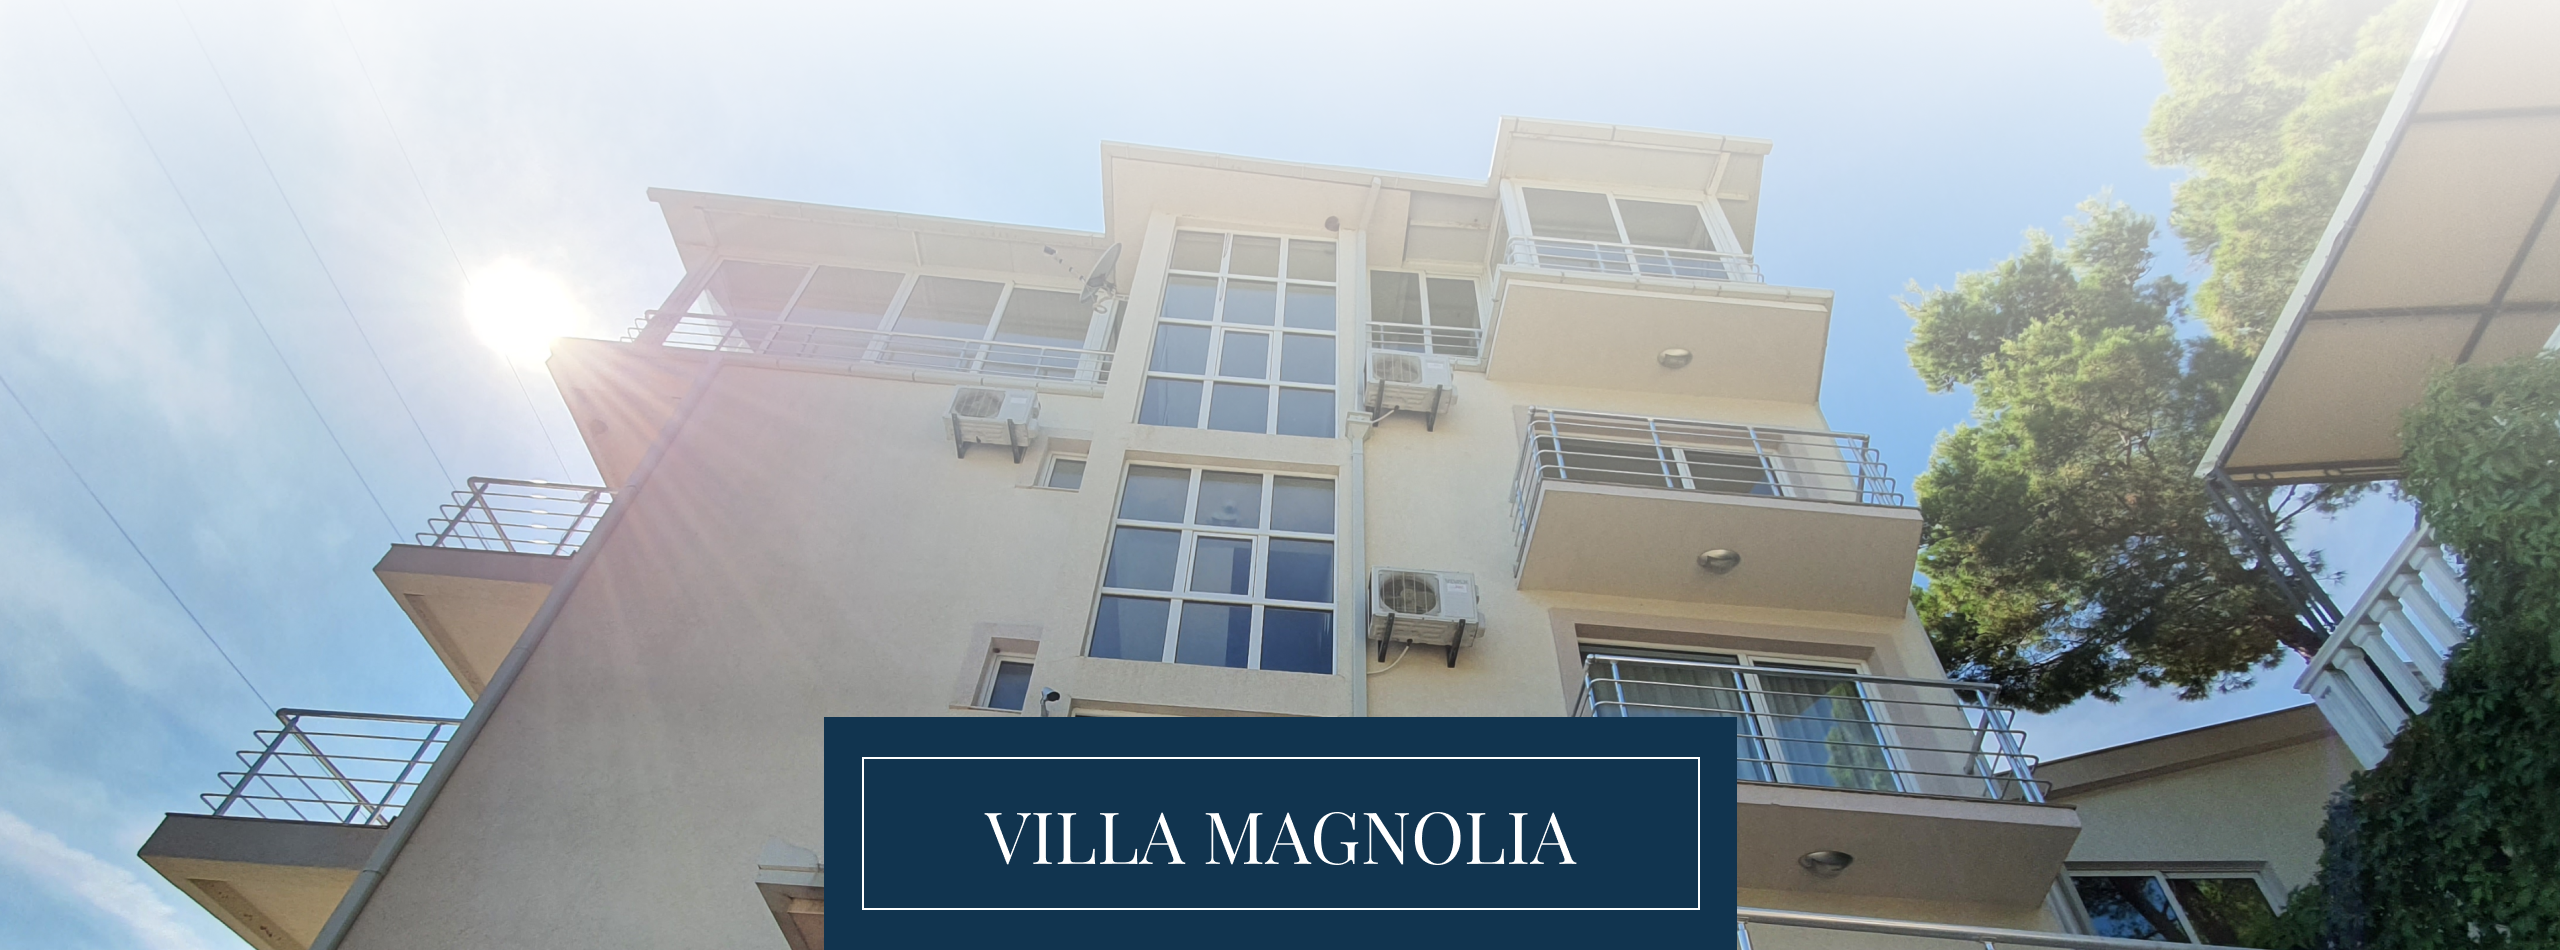
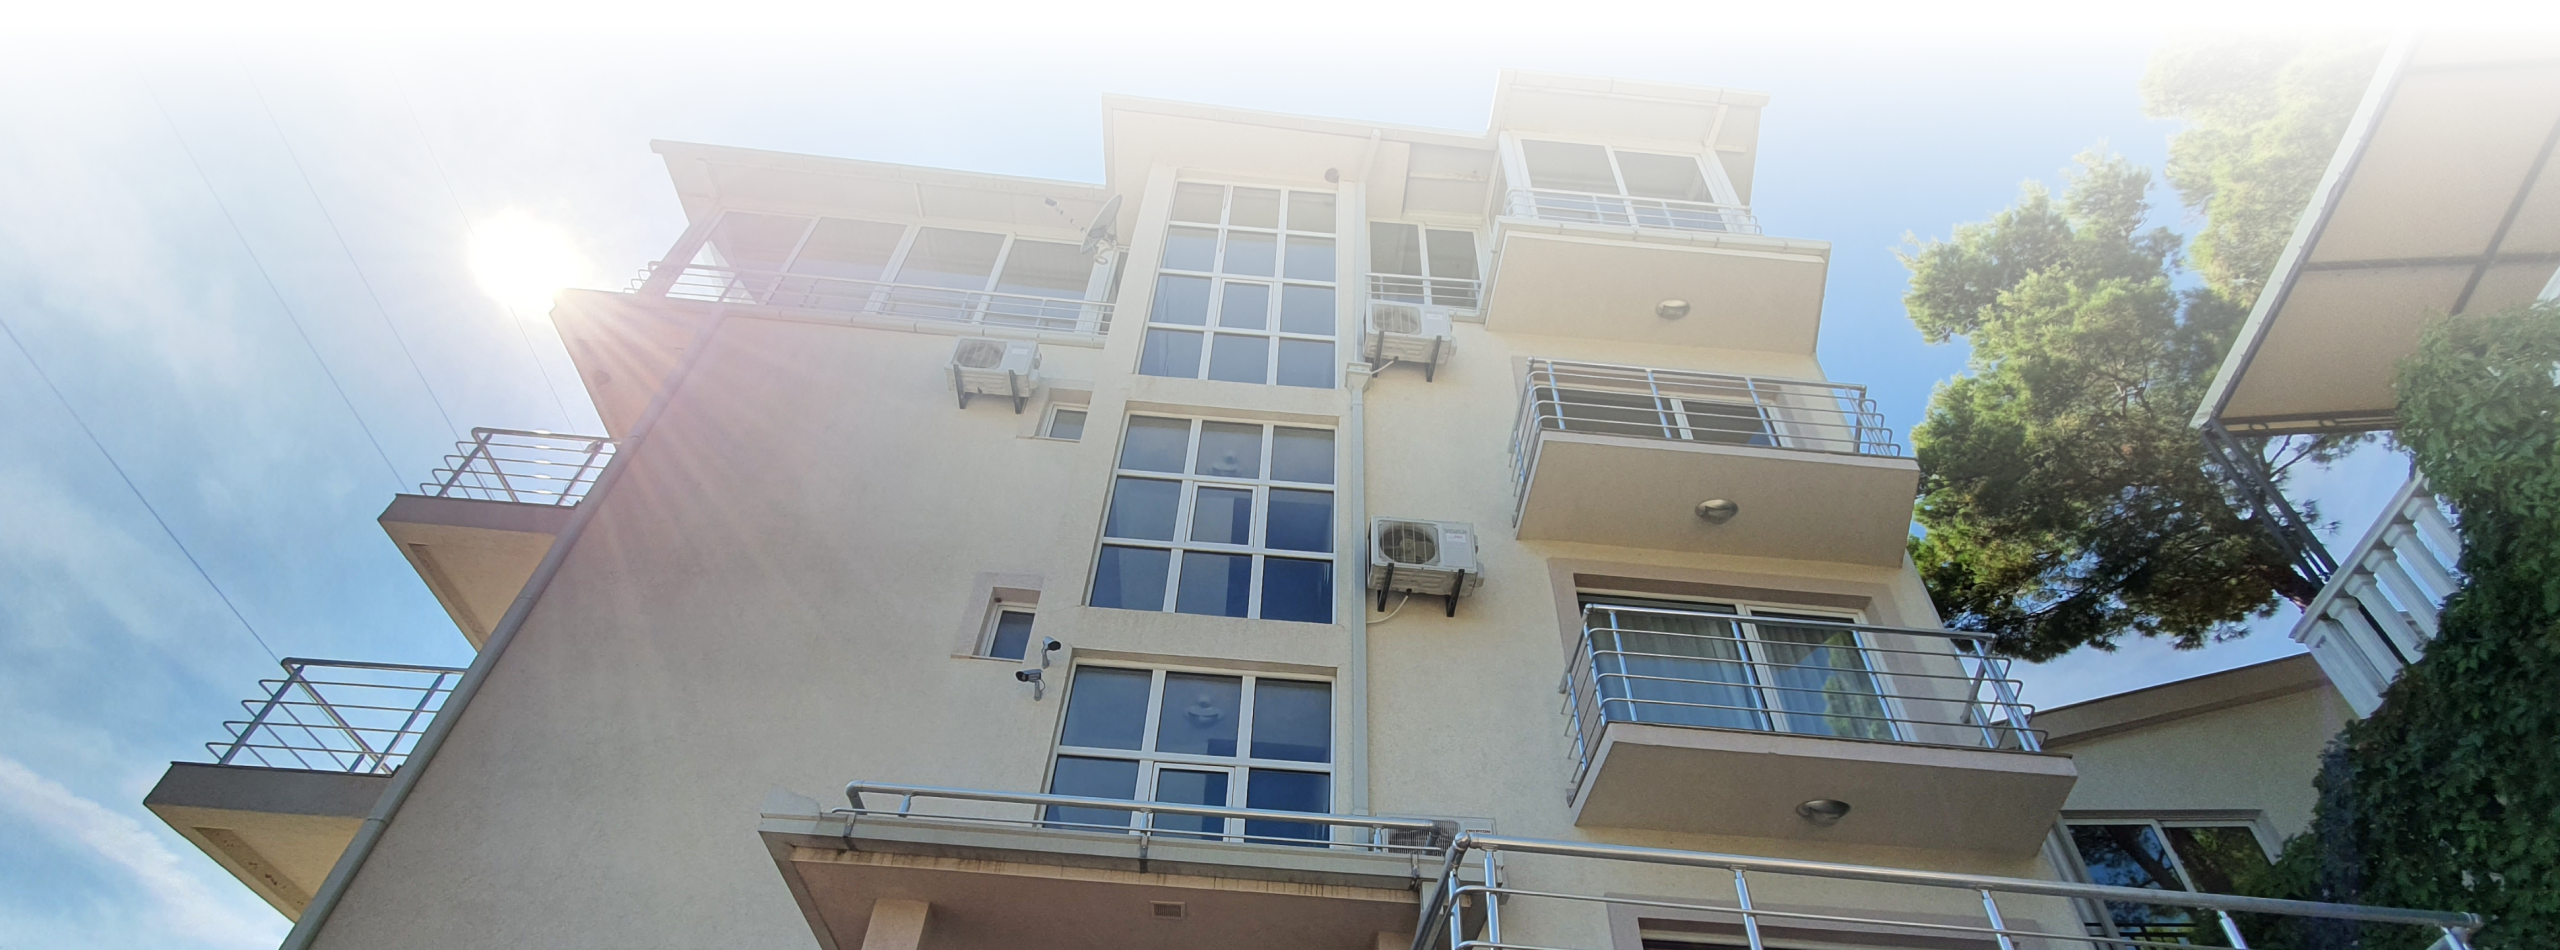
1

diff --git a/css/style.css b/css/style.css
@@ -44,13 +44,13 @@ body {
     filter: drop-shadow(5px 5px 10px rgba(0, 0, 0, 0.25));
     cursor: pointer;
 }
-
+.one {
+    position: relative;
+}
 .header__offer {
     text-align: center;
     position: absolute;
-top:0;
-left: 19.5%;
-margin: 0 auto;
+    top: 5%;
 }
 
 .header__offer h3 {
@@ -97,8 +97,6 @@ margin: 0 auto;
 .header__offer a:active {
     filter: drop-shadow(5px 5px 10px rgba(0, 0, 0, 0.25));
 }
-
-
 header h1 {
     font-family: Playfair Display;
     font-weight: normal;
@@ -113,7 +111,54 @@ header h1 {
 .header__title>h1:nth-child(1) {
     width: 660px;
 }
-
+/* Слайдер */
+.slick-slider {
+    min-width: 0;
+  }
+  /* Ограничивающая оболочка */
+  .slick-list {
+    overflow: hidden;
+  }
+  .slick-track {
+    display: flex;
+    align-items: flex-start;
+  }
+  .slick-arrow {
+    border: 0;
+  }
+  .slick-arrow.slick-prev {
+    border: 0;
+  }
+  .slick-arrow.slick-next {
+    border: 0;
+  }
+  .slick-dots {
+    border: 0;
+    padding: 0;
+  }
+  .slick-dots li {
+    border: 0;
+  }
+  .slick-dots button {
+    border: 0;
+  }
+  .slider .slick-arrow.slick-disabled {
+    opacity: 0.1;
+  }
+  .slider {
+  }
+  .slider__item {
+    position: relative;
+    display: flex;
+    justify-content: center;
+  }
+  .slider__item img {
+    object-fit: cover;
+    width: 100vw;
+    height: 100vh;
+  }
+  .slider__body {
+  }
 .about {
     padding: 120px 0;
 }
@@ -517,118 +562,6 @@ footer {
 .permission__wrap>p:nth-child(3) {
     margin-bottom: 100px;
 }
-/* Слайдер */
-.slick-slider {
-    min-width: 0;
-  }
-  /* Ограничивающая оболочка */
-  .slick-list {
-    overflow: hidden;
-  }
-  /* Лента слайдов */
-  .slick-track {
-    display: flex;
-    align-items: flex-start;
-  }
-  /* Стрелка */
-  .slick-arrow {
-    border: 0;
-  }
-  /* Стрелка влево */
-  .slick-arrow.slick-prev {
-    border: 0;
-  }
-  /* Стрелка вправо */
-  .slick-arrow.slick-next {
-    border: 0;
-  }
-  /* Точки */
-  .slick-dots {
-    border: 0;
-    padding: 0;
-  }
-  .slick-dots li {
-  
-    border: 0;
-  }
-  .slick-dots button {
-    border: 0;
-  }
-  .slider .slick-arrow.slick-disabled {
-    opacity: 0.1;
-  }
-  /* Конкретный слайдер */
-  .slider {
-    position: relative;
-  }
-  
-  /* стрелки */
-  .slider .slick-arrow {
-    position: absolute;
-    top: 50%;
-    margin: -30px 0px 0px 0px;
-    z-index: 10;
-    font-size: 0;
-    width: 30px;
-    height: 60px;
-  }
-  
-  .slider .slick-arrow.slick-prev {
-    left: 0;
-    background: url(../img/sl-arrow_l.svg) 0 0/100% no-repeat;
-  }
-  
-  .slider .slick-arrow.slick-next {
-    right: 0;
-    background: url(../img/sl-arrow_r.svg) 0 0/100% no-repeat;
-  }
-  
-  .slider .slick-dots {
-    display: flex;
-    align-items: center;
-    justify-content: center;
-  }
-  
-  .slider .slick-dots li {
-    list-style: none;
-    margin: 0px 10px;
-  }
-  
-  .slider .slick-dots button {
-    font-size: 0;
-    width: 10px;
-    height: 10px;
-    background-color: #fff;
-    border-radius: 50%;
-    outline: none;
-  }
-  
-  .slider .slick-dots li.slick-active button {
-    background-color: transparent;
-    border: 1px solid #fff;
-  }
-  
-  .slider__item {
-    padding: 0px 15px;
-    text-align: center;
-  }
-  
-  .slider__item img {
-    object-fit: cover;
-    height: 100vh;
-    width: 100vw;
-  }
-  
-  .slider__body {
-    object-fit: cover;
-  }
-
-
-
-
-
-
-
 .byt__wrap {
     display: flex;
     justify-content: space-between;
@@ -689,7 +622,8 @@ footer {
     width: 50%;
 }
 
-стрелки .slider2 .slick-arrow {
+/* стрелки  */
+.slider2 .slick-arrow {
     position: absolute;
     top: 10%;
     z-index: 100;
@@ -754,5 +688,3 @@ div.slider__item2 img {
     height: 100vh;
     width: 100%;
 }
-
-

diff --git a/index.html b/index.html
@@ -14,30 +14,24 @@
 
 <body>
     <header>
-        <div class="slider__body">
         <div class="slider">
             <div class="slider__item filter">
-               <img src="img/bg__header.png" alt="header">
-               <div class="header__offer">
-                <h3>LONG-TERM RESIDENCE PERMIT</h3>
-                <h4> All buyers and their families receive a free long-term <br>
-                    residence permit in Montenegro as a gift.</h4>
-                <a href="permission.html">START A NEW LIFE IN EUROPE</a>
-            </div>
+                <img src="img/home__head.png" alt="home">
             </div>
             <div class="slider__item filter">
-                <img src="img/home__head.png" alt="header">
-                
-             </div>
-             <div class="slider__item filter">
-                <img src="img/vievs__head.png" alt="header">
-                
-             </div>
+                <img src="img/vievs__head.png" alt="views">
+            </div>
+            <div class="slider__item filter">
+                <img src="img/bg__header.png" alt="views">
+                    <div class="header__offer">
+                        <h3>LONG-TERM RESIDENCE PERMIT</h3>
+                        <h4> All buyers and their families receive a free long-term <br>
+                            residence permit in Montenegro as a gift.</h4>
+                        <a href="permission.html">START A NEW LIFE IN EUROPE</a>
+                    </div>
+            </div>
+
         </div>
-    </div>
-    
-                    
-            
 <div class="container">
     <div class="nav__menu">
             <div class="nav__language">
@@ -46,11 +40,11 @@
             <a href=""><img src="img/phone__head.svg" alt="phone"></a>
             <a href="mailto:vlad@htmlbook.ru"><img src="img/email__head.svg" alt="email"></a>
             <a href=""><img src="img/facebook__head.svg" alt="facebook"></a>
-           
+
         </div>
-        
+
 </div>
-       
+
     </header>
 
 
@@ -73,7 +67,7 @@
     </div>
     <div class="home">
         <img class="home__img" src="img/home.png" alt="home">
-        
+
     </div>
     <div class="apartmans">
         <div class="container">
